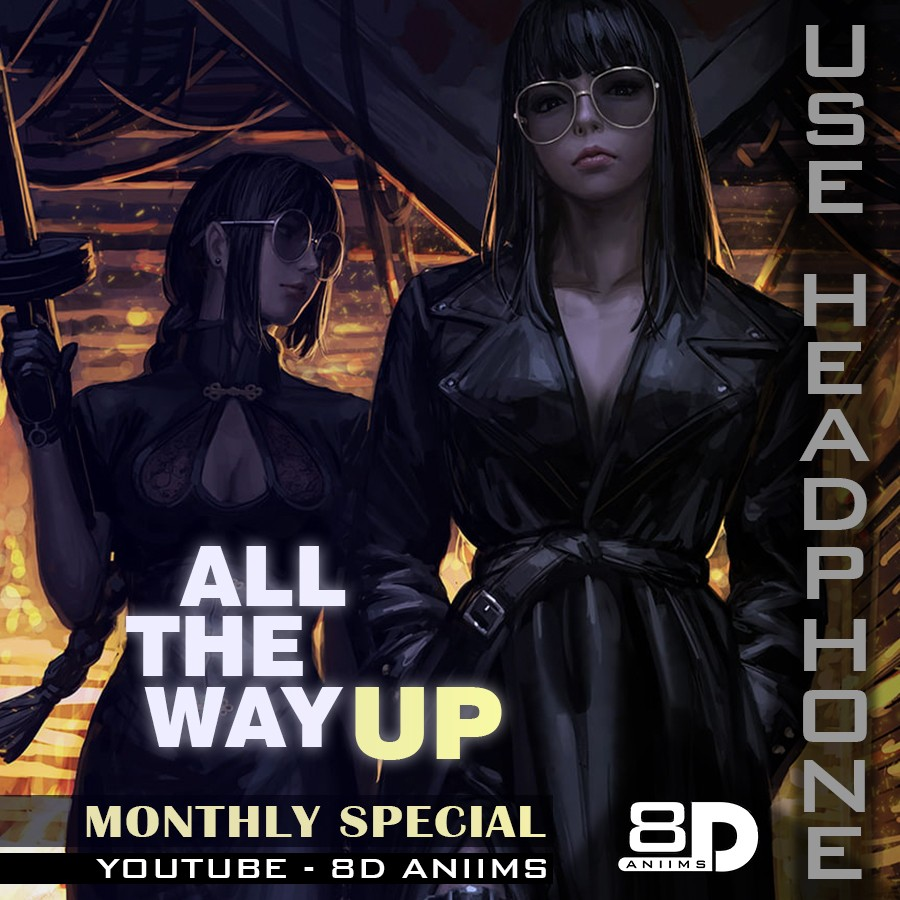
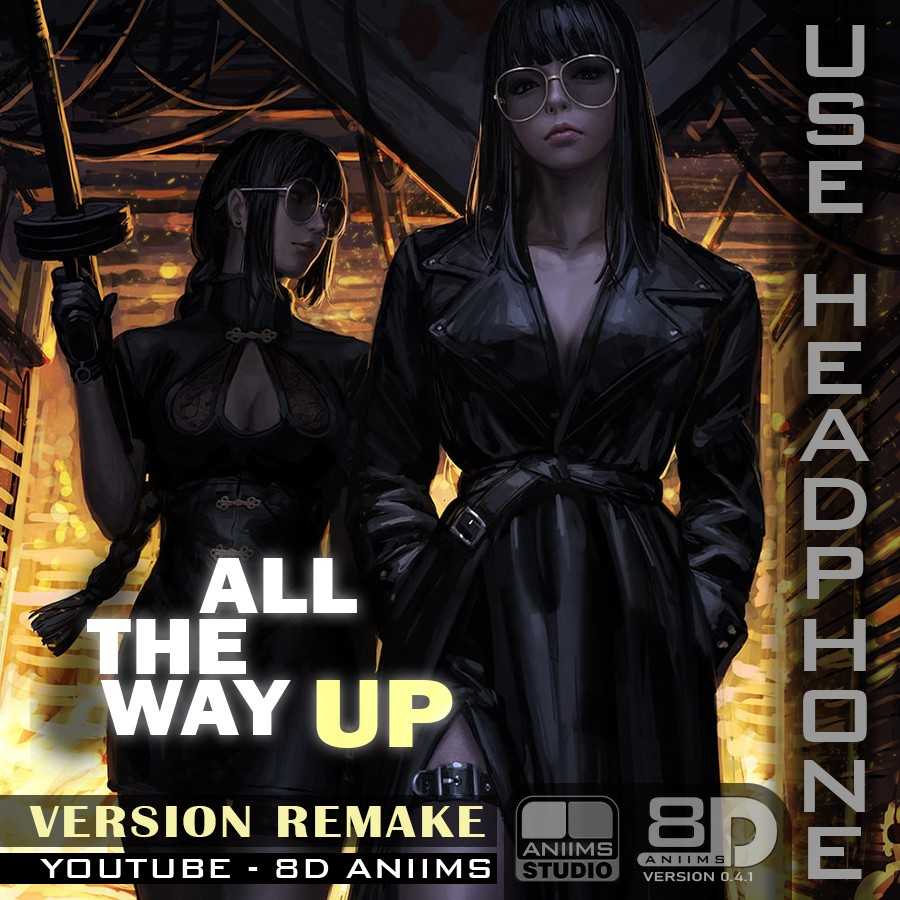
update 58
album released

diff --git a/author.html b/author.html
@@ -127,6 +127,49 @@ https://templatemo.com/tm-577-liberty-market
                 <span class="author">
                   <img src="assets/images/author.jpg" alt="" style="max-width: 50px; border-radius: 50%;">
                 </span>
+                <img src="assets/images/poto-48.jpg" alt="" style="border-radius: 20px;">
+                <h4>VERSION REMAKE</h4>
+              </div>
+              <div class="col-lg-12">
+                <div class="line-dec"></div>
+                <div class="row">
+                  <div class="col-6">
+                    <span>Frequency: <br> <strong>44100 Hz</strong></span>
+                  </div>
+                  <div class="col-6">
+                    <span>Bitrate: <br> <strong>192 kbit/s</strong></span><br><br>
+                  </div>
+          <div class="col-6">
+                    <span>Album size: <br> <strong>3.40 MB</strong></span>
+                  </div>
+                  <div class="col-6">
+                    <span>files: <br> <strong>02</strong></span><br><br>
+                  </div>
+                  <div class="col-6">
+                    <span>8D Version: <br> <strong>0.4.1</strong></span><br><br>
+                  </div>
+                </div>
+              </div>
+        <form>
+<font face="arial" color="white">
+<input type="radio" name="like"> Like<br>
+  <input type="radio" name="like"> Unlike<br><br></font>
+</form>
+              <div class="col-lg-12">
+                <div class="main-button">
+                  <a href="https://1drv.ms/f/c/151943d63749d2ee/Eu7SSTfWQxkggBXGAQAAAAABwlQrvqfJXHwDHmhEZXgt8g?e=hvw3Qj">Download This Album</a>
+                </div>
+              </div>
+            </div>
+          </div>
+          </div>
+        <div class="col-lg-3 col-md-6">
+          <div class="item">
+            <div class="row">
+              <div class="col-lg-12">
+                <span class="author">
+                  <img src="assets/images/author.jpg" alt="" style="max-width: 50px; border-radius: 50%;">
+                </span>
                 <img src="assets/images/poto-166.jpg" alt="" style="border-radius: 20px;">
                 <h4>MONTHLY SPECIAL</h4>
               </div>
@@ -2136,49 +2179,6 @@ https://templatemo.com/tm-577-liberty-market
               <div class="col-lg-12">
                 <div class="main-button">
                   <a href="https://1drv.ms/f/s!Au7SSTfWQxkVg2pL1p0EoVSU88Y4?e=QpjCxL">Download This Album</a>
-                </div>
-              </div>
-            </div>
-          </div>
-          </div>
-          <div class="col-lg-3 col-md-6">
-          <div class="item">
-            <div class="row">
-              <div class="col-lg-12">
-                <span class="author">
-                  <img src="assets/images/author.jpg" alt="" style="max-width: 50px; border-radius: 50%;">
-                </span>
-                <img src="assets/images/poto-119.jpg" alt="" style="border-radius: 20px;">
-                <h4>MONTHLY SPECIAL</h4>
-              </div>
-              <div class="col-lg-12">
-                <div class="line-dec"></div>
-                <div class="row">
-                  <div class="col-6">
-                    <span>Frequency: <br> <strong>44100 Hz</strong></span>
-                  </div>
-                  <div class="col-6">
-                    <span>Bitrate: <br> <strong>192 kbit/s</strong></span><br><br>
-                  </div>
-          <div class="col-6">
-                    <span>Album size: <br> <strong>4.26 MB</strong></span>
-                  </div>
-                  <div class="col-6">
-                    <span>files: <br> <strong>02</strong></span><br><br>
-                  </div>
-                  <div class="col-6">
-                    <span>8D Version: <br> <strong>0.3</strong></span><br><br>
-                  </div>
-                </div>
-              </div>
-        <form>
-<font face="arial" color="white">
-<input type="radio" name="like"> Like<br>
-  <input type="radio" name="like"> Unlike<br><br></font>
-</form>
-              <div class="col-lg-12">
-                <div class="main-button">
-                  <a href="https://1drv.ms/f/s!Au7SSTfWQxkVg2exWJqh0GrtR1bh?e=QKBKbJ">Download This Album</a>
                 </div>
               </div>
             </div>

diff --git a/author_1 page.html b/author_1 page.html
@@ -127,6 +127,49 @@ https://templatemo.com/tm-577-liberty-market
                 <span class="author">
                   <img src="assets/images/author.jpg" alt="" style="max-width: 50px; border-radius: 50%;">
                 </span>
+                <img src="assets/images/poto-119.jpg" alt="" style="border-radius: 20px;">
+                <h4>MONTHLY SPECIAL</h4>
+              </div>
+              <div class="col-lg-12">
+                <div class="line-dec"></div>
+                <div class="row">
+                  <div class="col-6">
+                    <span>Frequency: <br> <strong>44100 Hz</strong></span>
+                  </div>
+                  <div class="col-6">
+                    <span>Bitrate: <br> <strong>192 kbit/s</strong></span><br><br>
+                  </div>
+          <div class="col-6">
+                    <span>Album size: <br> <strong>4.26 MB</strong></span>
+                  </div>
+                  <div class="col-6">
+                    <span>files: <br> <strong>02</strong></span><br><br>
+                  </div>
+                  <div class="col-6">
+                    <span>8D Version: <br> <strong>0.3</strong></span><br><br>
+                  </div>
+                </div>
+              </div>
+        <form>
+<font face="arial" color="white">
+<input type="radio" name="like"> Like<br>
+  <input type="radio" name="like"> Unlike<br><br></font>
+</form>
+              <div class="col-lg-12">
+                <div class="main-button">
+                  <a href="https://1drv.ms/f/s!Au7SSTfWQxkVg2exWJqh0GrtR1bh?e=QKBKbJ">Download This Album</a>
+                </div>
+              </div>
+            </div>
+          </div>
+          </div>
+          <div class="col-lg-3 col-md-6">
+          <div class="item">
+            <div class="row">
+              <div class="col-lg-12">
+                <span class="author">
+                  <img src="assets/images/author.jpg" alt="" style="max-width: 50px; border-radius: 50%;">
+                </span>
                 <img src="assets/images/poto-118.jpg" alt="" style="border-radius: 20px;">
                 <h4>MONTHLY SPECIAL</h4>
               </div>
@@ -459,49 +502,6 @@ https://templatemo.com/tm-577-liberty-market
               <div class="col-lg-12">
                 <div class="main-button">
                   <a href="https://1drv.ms/f/s!Au7SSTfWQxkVgzFAbyegwNjb-r-s?e=QjnNZM">Download This Album</a>
-                </div>
-              </div>
-            </div>
-          </div>
-          </div>
-          <div class="col-lg-3 col-md-6">
-          <div class="item">
-            <div class="row">
-              <div class="col-lg-12">
-                <span class="author">
-                  <img src="assets/images/author.jpg" alt="" style="max-width: 50px; border-radius: 50%;">
-                </span>
-                <img src="assets/images/poto-110.jpg" alt="" style="border-radius: 20px;">
-                <h4>MONTHLY SPECIAL</h4>
-              </div>
-              <div class="col-lg-12">
-                <div class="line-dec"></div>
-                <div class="row">
-                  <div class="col-6">
-                    <span>Frequency: <br> <strong>44100 Hz</strong></span>
-                  </div>
-                  <div class="col-6">
-                    <span>Bitrate: <br> <strong>192 kbit/s</strong></span><br><br>
-                  </div>
-          <div class="col-6">
-                    <span>Album size: <br> <strong>3.76 MB</strong></span>
-                  </div>
-                  <div class="col-6">
-                    <span>files: <br> <strong>02</strong></span><br><br>
-                  </div>
-                  <div class="col-6">
-                    <span>8D Version: <br> <strong>0.3</strong></span><br><br>
-                  </div>
-                </div>
-              </div>
-        <form>
-<font face="arial" color="white">
-<input type="radio" name="like"> Like<br>
-  <input type="radio" name="like"> Unlike<br><br></font>
-</form>
-              <div class="col-lg-12">
-                <div class="main-button">
-                  <a href="https://1drv.ms/f/s!Au7SSTfWQxkVhC4RyGzL2nRfUHfU?e=m5Tg2b">Download This Album</a>
                 </div>
               </div>
             </div>

diff --git a/index.html b/index.html
@@ -101,6 +101,9 @@ songs will be in 8D audio, slowed, reverb or normal.</p>
         <div class="col-lg-5 offset-lg-1">
           <div class="owl-banner owl-carousel">
             <div class="item">
+              <img src="assets/images/poto-48.jpg" alt="">
+            </div>
+            <div class="item">
               <img src="assets/images/poto-166.jpg" alt="">
             </div>
             <div class="item">
@@ -127,9 +130,6 @@ songs will be in 8D audio, slowed, reverb or normal.</p>
             <div class="item">
               <img src="assets/images/poto-158.jpg" alt="">
             </div>
-            <div class="item">
-              <img src="assets/images/poto-157.jpg" alt="">
-            </div>
           </div>
         </div>
       </div>
@@ -147,7 +147,7 @@ songs will be in 8D audio, slowed, reverb or normal.</p>
             <h2>COMING SOON!</h2>
             <h6>WITH 0.4.1 8D VERSION...</h6>
             <font color="#FF957E" size="4">☠ WARNING!.. use "<u>headphone</u> 🎧" or "<u>handfree</u> 🎧".</font>
-            <p>⦿ Sam Ourt, AKIAL & Srikar - Escape [8D ANIIMS].</p>
+            <p>⦿ All The Way Up (Edgar Willow, Peter Piffen Cover) [8D ANIIMS].</p>
             <div class="buttons">
               <div class="main-button">
                 <a href="author.html" target="_blank">Download our all 8D Audios</a>
@@ -159,7 +159,7 @@ songs will be in 8D audio, slowed, reverb or normal.</p>
         <div class="col-lg-5 offset-lg-1">
           <div class="owl-banner owl-carousel">
             <div class="item">
-              <img src="assets/images/poto-48.jpg" alt="">
+              <img src="assets/images/poto-110.jpg" alt="">
             </div>
           </div>
         </div>
